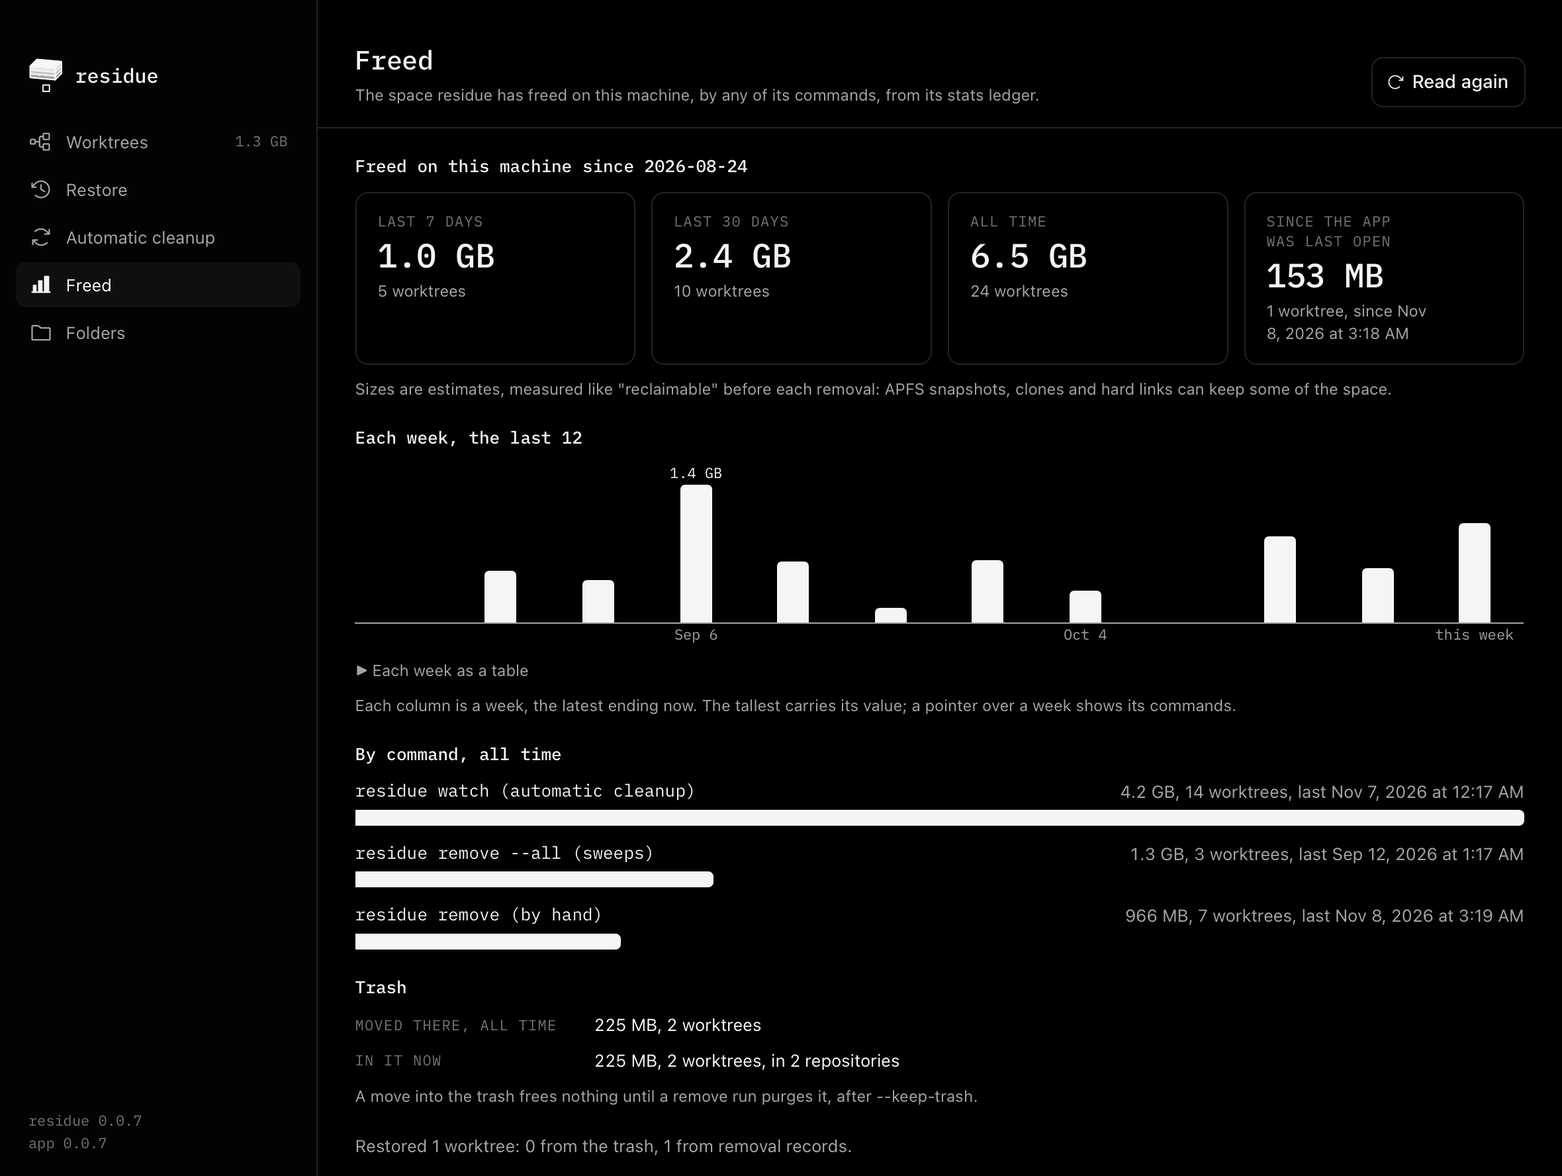
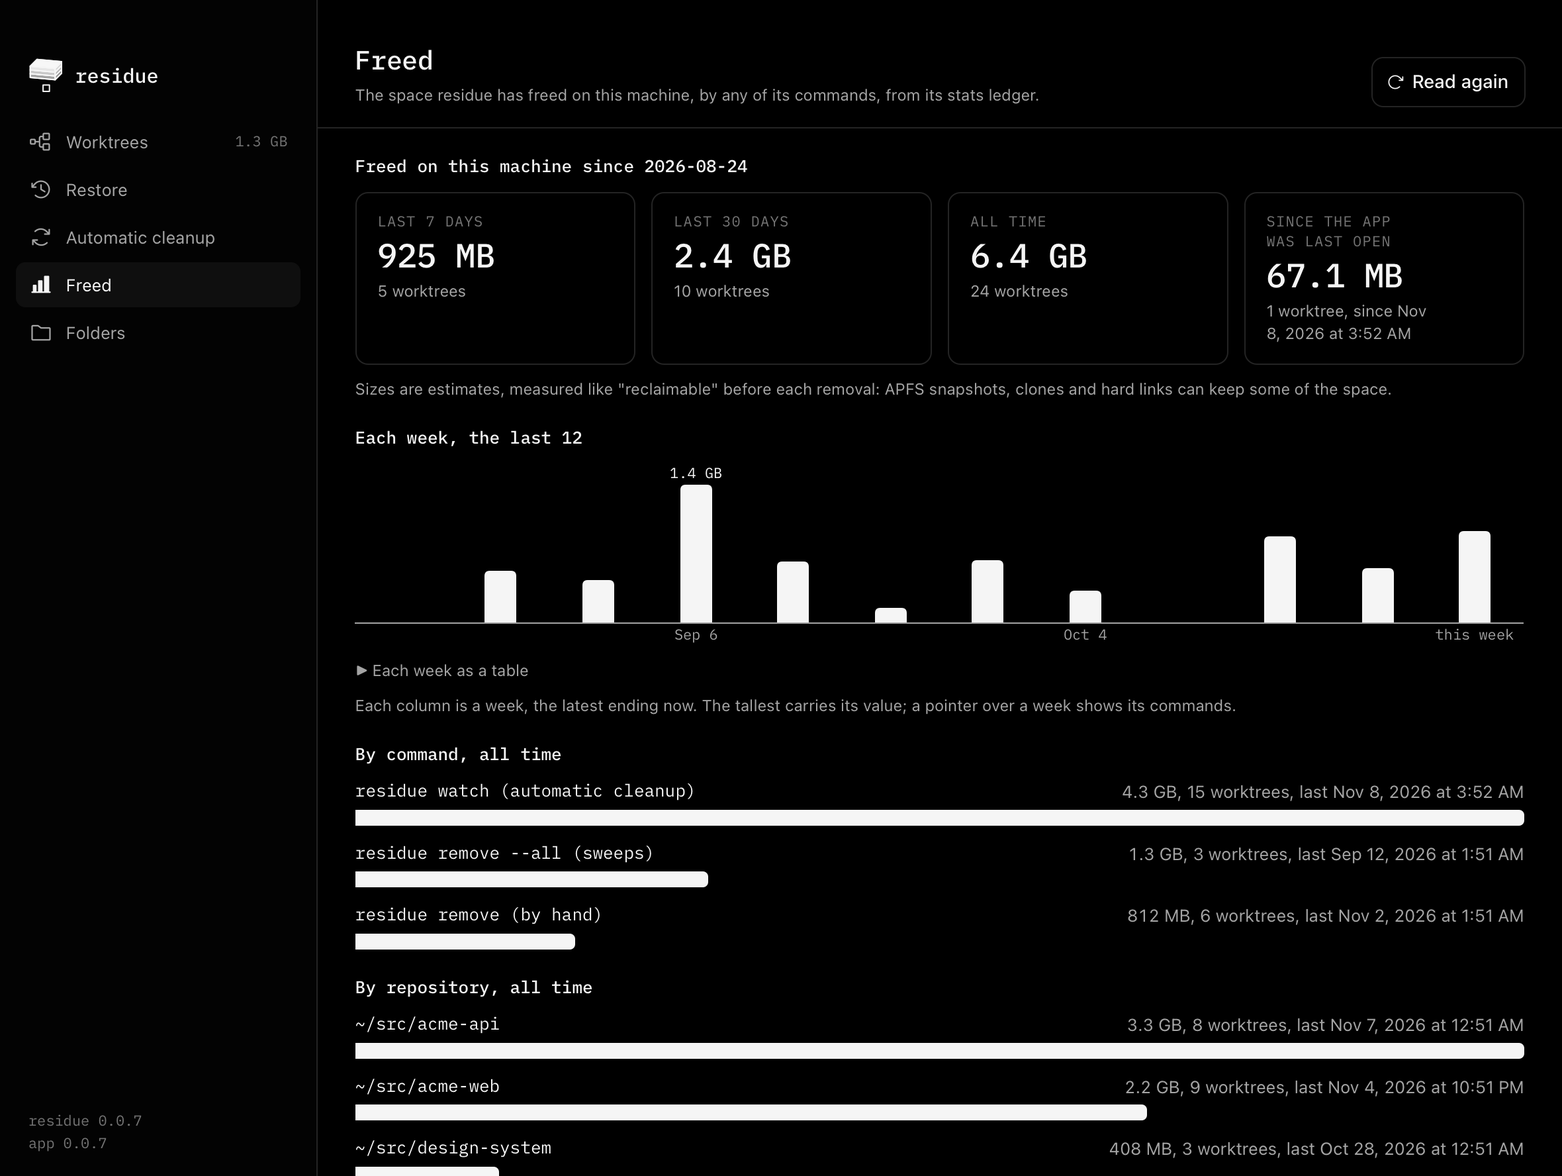
feat(app): what residue freed, by repository and since the app was last open (#38) (#65)
The Freed screen lists each repository from `residue stats --json`,
most first, with paths as the other screens show them; the first eight,
then a button for the rest. The Worktrees screen opens with what
automatic cleanup freed while the app was closed, in a polite status
region that links to Freed. The last-open mark now keeps `by.watch`.

README "Mac app": the Freed line, and both screenshots re-taken with
the new surfaces, alt texts to match. CHANGELOG under Unreleased.

diff --git a/app/src/lib/freed.ts b/app/src/lib/freed.ts
@@ -24,6 +24,11 @@ export function localDay(iso: string): string {
   return `${d.getFullYear()}-${pad(d.getMonth() + 1)}-${pad(d.getDate())}`;
 }
 
+/** `Nov 8, 2026 at 3:09 AM`: a time in the reader's locale, to the minute. */
+export function localTime(iso: string): string {
+  return new Date(iso).toLocaleString(undefined, { dateStyle: "medium", timeStyle: "short" });
+}
+
 /** `65.0 MB, 2 worktrees`. */
 export function sumText(sum: FreedSum): string {
   return `${bytes(sum.bytes)}, ${plural(sum.worktrees, "worktree")}`;
@@ -59,6 +64,19 @@ interface Mark {
   worktrees: number;
   /** When residue wrote that document. */
   at: string;
+  /** What automatic cleanup (`watch`) had freed; absent in a mark an earlier build wrote. */
+  watch: FreedSum | null;
+}
+
+function isSum(v: unknown): v is FreedSum {
+  return (
+    typeof v === "object" &&
+    v !== null &&
+    "bytes" in v &&
+    "worktrees" in v &&
+    typeof v.bytes === "number" &&
+    typeof v.worktrees === "number"
+  );
 }
 
 const MARK_KEY = "residue.freed.seen";
@@ -68,17 +86,9 @@ function readMark(): Mark | null {
     const raw = localStorage.getItem(MARK_KEY);
     if (raw === null) return null;
     const m: unknown = JSON.parse(raw);
-    if (
-      typeof m === "object" &&
-      m !== null &&
-      "bytes" in m &&
-      "worktrees" in m &&
-      "at" in m &&
-      typeof m.bytes === "number" &&
-      typeof m.worktrees === "number" &&
-      typeof m.at === "string"
-    ) {
-      return { bytes: m.bytes, worktrees: m.worktrees, at: m.at };
+    if (isSum(m) && "at" in m && typeof m.at === "string") {
+      const watch = "watch" in m && isSum(m.watch) ? { bytes: m.watch.bytes, worktrees: m.watch.worktrees } : null;
+      return { bytes: m.bytes, worktrees: m.worktrees, at: m.at, watch };
     }
     return null;
   } catch {
@@ -95,7 +105,8 @@ const lastOpen = readMark();
 export function rememberFreed(doc: StatsDocument): void {
   const now = doc.freed.all_time;
   try {
-    localStorage.setItem(MARK_KEY, JSON.stringify({ bytes: now.bytes, worktrees: now.worktrees, at: doc.generated_at }));
+    const mark: Mark = { bytes: now.bytes, worktrees: now.worktrees, at: doc.generated_at, watch: now.by.watch };
+    localStorage.setItem(MARK_KEY, JSON.stringify(mark));
   } catch {
     // Storage the web view refuses: the next session has no mark, and shows no figure.
   }
@@ -110,4 +121,20 @@ export function sinceLastOpen(doc: StatsDocument): (FreedSum & { since: string }
   const now = doc.freed.all_time;
   if (!lastOpen || now.worktrees < lastOpen.worktrees || now.bytes < lastOpen.bytes) return null;
   return { bytes: now.bytes - lastOpen.bytes, worktrees: now.worktrees - lastOpen.worktrees, since: lastOpen.at };
+}
+
+/**
+ * What automatic cleanup (`residue watch`, `by.watch`) freed since the last
+ * session's mark, for the line the Worktrees screen opens with. Null under
+ * the same rules as `sinceLastOpen`, when the mark has no `watch` figure
+ * (an earlier build wrote it), and when automatic cleanup freed nothing:
+ * removals by hand, the app's own included, are the user's own doing.
+ */
+export function cleanedSinceLastOpen(doc: StatsDocument): (FreedSum & { since: string }) | null {
+  const all = sinceLastOpen(doc);
+  const before = lastOpen?.watch;
+  if (!all || !before) return null;
+  const now = doc.freed.all_time.by.watch;
+  if (now.worktrees <= before.worktrees || now.bytes < before.bytes) return null;
+  return { bytes: now.bytes - before.bytes, worktrees: now.worktrees - before.worktrees, since: all.since };
 }

diff --git a/app/src/views/Worktrees.tsx b/app/src/views/Worktrees.tsx
@@ -1,5 +1,5 @@
 import { Button, Checkbox, Empty, Tabs } from "@cloudflare/kumo";
-import { ArrowClockwise, CaretRight, FolderPlus, Trash } from "@phosphor-icons/react";
+import { ArrowClockwise, ArrowsClockwise, CaretRight, FolderPlus, Trash } from "@phosphor-icons/react";
 import { useId, useMemo } from "react";
 import { Treemap, type ZoomLevel } from "../components/viz/Treemap";
 import {
@@ -13,6 +13,7 @@ import {
   isPermissionError,
 } from "../components/ui";
 import { baseName, bytes, inside, plural, tilde } from "../lib/format";
+import { localTime } from "../lib/freed";
 import type { CliError, FreedSum, Repository, ScanDocument, Worktree } from "../lib/types";
 import { documentTime } from "../lib/useCli";
 import { matches, type Filter } from "../lib/viz";
@@ -42,6 +43,7 @@ export function Worktrees({
   onRemove,
   onChooseFolders,
   freed,
+  cleaned,
   onFreed,
 }: {
   doc: ScanDocument | undefined;
@@ -62,6 +64,8 @@ export function Worktrees({
   onChooseFolders: () => void;
   /** What residue freed in the last 7 days and its estimate note; "unavailable" when its stats could not be read, null while they are read. */
   freed: { week: FreedSum; note: string } | "unavailable" | null;
+  /** What automatic cleanup freed since the app was last open (`cleanedSinceLastOpen`), with the estimate note; null when there is nothing to say. */
+  cleaned: (FreedSum & { since: string; note: string }) | null;
   onFreed: () => void;
 }) {
   const now = documentTime(doc?.generated_at) ?? 0;
@@ -114,6 +118,7 @@ export function Worktrees({
       <>
         {header}
         <div className="page-body">
+          <SinceOpen cleaned={cleaned} onFreed={onFreed} />
           <Empty
             icon={<FolderPlus size={32} />}
             title="No folders to scan"
@@ -133,6 +138,7 @@ export function Worktrees({
     <>
       {header}
       <div className="page-body" aria-busy={scanning}>
+        <SinceOpen cleaned={cleaned} onFreed={onFreed} />
         {error ? (
           <ErrorPanel
             title="The scan did not finish"
@@ -228,6 +234,39 @@ export function Worktrees({
         </footer>
       ) : null}
     </>
+  );
+}
+
+/**
+ * What automatic cleanup freed while the app was closed, said once the
+ * stats arrive, so nobody has to open Freed to learn it. The status region
+ * (`<output>`: role status, polite) is always there, empty until then, so
+ * a screen reader hears the line when it fills; an empty one takes no room
+ * (`.since-open:empty`).
+ */
+function SinceOpen({
+  cleaned,
+  onFreed,
+}: {
+  cleaned: (FreedSum & { since: string; note: string }) | null;
+  onFreed: () => void;
+}) {
+  return (
+    <output className="since-open" aria-live="polite">
+      {cleaned ? (
+        <>
+          <ArrowsClockwise size={16} aria-hidden className="since-open-icon" />
+          <span>
+            Automatic cleanup freed{" "}
+            <span className="since-open-figure num">about {bytes(cleaned.bytes)}</span>,{" "}
+            {plural(cleaned.worktrees, "worktree")}, since the app was last open on {localTime(cleaned.since)}.
+          </span>
+          <button type="button" className="link-button" title={cleaned.note} onClick={onFreed}>
+            Open Freed
+          </button>
+        </>
+      ) : null}
+    </output>
   );
 }
 

diff --git a/app/src/views/Freed.tsx b/app/src/views/Freed.tsx
@@ -1,11 +1,12 @@
 import { Button, Empty } from "@cloudflare/kumo";
 import { ArrowClockwise, ChartBar } from "@phosphor-icons/react";
+import { useState } from "react";
 import { Columns, WeekTable } from "../components/viz/Columns";
 import { Figure } from "../components/viz/Figure";
 import { Ranked } from "../components/viz/Ranked";
 import { ErrorPanel, Loading, PageHeader } from "../components/ui";
 import { bytes, plural, tilde } from "../lib/format";
-import { COMMANDS, localDay } from "../lib/freed";
+import { COMMANDS, localDay, localTime } from "../lib/freed";
 import type { CliError, FreedSum, StatsDocument } from "../lib/types";
 
 /**
@@ -67,7 +68,7 @@ export function Freed({
                     <Kpi
                       label="Since the app was last open"
                       sum={sinceOpen}
-                      note={new Date(sinceOpen.since).toLocaleString(undefined, { dateStyle: "medium", timeStyle: "short" })}
+                      note={localTime(sinceOpen.since)}
                     />
                   ) : null}
                 </dl>
@@ -114,13 +115,15 @@ export function Freed({
                       label: c.label,
                       sum: doc.freed.all_time.by[c.by],
                       note: last
-                        ? `last ${new Date(last).toLocaleString(undefined, { dateStyle: "medium", timeStyle: "short" })}`
+                        ? `last ${localTime(last)}`
                         : null,
                     };
                   })}
                 />
               </section>
             ) : null}
+
+            {freedAny && doc.repositories.length > 0 ? <Repositories repos={doc.repositories} home={home} /> : null}
 
             <Trash doc={doc} home={home} />
           </>
@@ -140,6 +143,39 @@ function Kpi({ label, sum, note }: { label: string; sum: FreedSum; note?: string
         {note ? `, since ${note}` : ""}
       </dd>
     </div>
+  );
+}
+
+/** How many repositories the list shows before "Show the other N". */
+const REPOS_SHOWN = 8;
+
+/**
+ * Each repository residue freed space in, most first, as `residue stats`
+ * lists them (`repositories`). Past the first eight, the rest wait behind
+ * one button, so a machine with many repositories keeps the trash in view.
+ */
+function Repositories({ repos, home }: { repos: StatsDocument["repositories"]; home: string | undefined }) {
+  const [all, setAll] = useState(false);
+  const shown = all ? repos : repos.slice(0, REPOS_SHOWN);
+  const hidden = repos.length - REPOS_SHOWN;
+  return (
+    <section className="block" aria-labelledby="freed-repos">
+      <h2 id="freed-repos">By repository, all time</h2>
+      <Ranked
+        label="Freed by repository, all time"
+        items={shown.map((r) => ({
+          key: r.common_dir,
+          label: tilde(r.path, home),
+          sum: r,
+          note: `last ${localTime(r.last_freed_at)}`,
+        }))}
+      />
+      {hidden > 0 ? (
+        <button type="button" className="link-button more" aria-expanded={all} onClick={() => setAll((a) => !a)}>
+          {all ? `Show the first ${REPOS_SHOWN} only` : `Show the other ${plural(hidden, "repository", "repositories")}`}
+        </button>
+      ) : null}
+    </section>
   );
 }
 

diff --git a/app/src/App.tsx b/app/src/App.tsx
@@ -13,7 +13,7 @@ import { Mark } from "./components/Mark";
 import type { ZoomLevel } from "./components/viz/Treemap";
 import { ErrorPanel, Loading } from "./components/ui";
 import { api } from "./lib/api";
-import { rememberFreed, sinceLastOpen } from "./lib/freed";
+import { cleanedSinceLastOpen, rememberFreed, sinceLastOpen } from "./lib/freed";
 import { bytes } from "./lib/format";
 import type { Settings } from "./lib/types";
 import type { Filter } from "./lib/viz";
@@ -74,6 +74,11 @@ export function App() {
   useEffect(() => {
     if (stats) rememberFreed(stats);
   }, [stats]);
+  // What automatic cleanup freed while the app was closed: the line the
+  // Worktrees screen opens with. The app's own removals are by hand, so a
+  // removal in this session never adds to it.
+  const cleanedSum = stats ? cleanedSinceLastOpen(stats) : null;
+  const cleaned = cleanedSum && stats ? { ...cleanedSum, note: stats.estimate_note } : null;
 
   // What opened the detail (`data-opener`), so leaving the detail returns
   // focus there, as a keyboard or screen reader user left it.
@@ -263,6 +268,7 @@ export function App() {
                   onRemove={setRemoving}
                   onChooseFolders={() => go("folders")}
                   freed={stats ? { week: stats.freed.last_7_days, note: stats.estimate_note } : statsQ.error ? "unavailable" : null}
+                  cleaned={cleaned}
                   onFreed={() => go("freed")}
                 />
               )

diff --git a/app/src/styles.css b/app/src/styles.css
@@ -299,9 +299,11 @@
 }
 
 .page-body {
+  --page-gap: 1.25rem;
+
   display: flex;
   flex-direction: column;
-  gap: 1.25rem;
+  gap: var(--page-gap);
   min-block-size: 0;
   padding-block: 1.25rem 2.5rem;
   padding-inline: var(--pad-x);
@@ -624,6 +626,37 @@ dd {
 
 .notice p + ul {
   margin-block-start: 0.35rem;
+}
+
+/* What automatic cleanup freed since the app was last open. The status
+   region stays in place while empty, so a screen reader hears it fill; its
+   negative margin takes back the page's gap, so an empty one takes no room. */
+.since-open {
+  display: flex;
+  flex-wrap: wrap;
+  align-items: center;
+  gap: 0.35rem 0.75rem;
+  margin: 0;
+  padding: 0.75rem 1.1rem;
+  border: 1px solid var(--line);
+  border-radius: var(--radius);
+  color: var(--muted);
+  font-size: 0.8125rem;
+}
+
+.since-open:empty {
+  padding: 0;
+  border: 0;
+  margin-block-end: calc(-1 * var(--page-gap));
+}
+
+.since-open-icon {
+  flex: none;
+  color: var(--fg);
+}
+
+.since-open-figure {
+  color: var(--fg);
 }
 
 .notice.dev {
@@ -1552,6 +1585,13 @@ li:not([data-result="trashed"]) > .plan-result {
 
 .link-button:active {
   opacity: 0.7;
+}
+
+/* "Show the other N": a quiet line under a list, never stretched across it. */
+.link-button.more {
+  justify-self: start;
+  color: var(--muted);
+  font-size: 0.75rem;
 }
 
 .disks {

diff --git a/README.md b/README.md
@@ -324,11 +324,11 @@ The launchd plist, the systemd unit and timer, how to stop them, and the sweep's
 The Mac app is residue in a window. It lists the linked worktrees under your code folders with their size and verdict, shows why each one is kept, moves the ones that can go to the trash, restores them, shows what residue has freed, and turns automatic cleanup on or off. Every check, size and removal comes from the residue binary inside the app, which is this release's own residue, with the same version.
 
 <p>
-<img src="docs/screenshots/worktrees.png" width="830" alt="The Worktrees screen: 1.3 GB reclaimable, 7 of 12 linked worktrees can go, about 1.0 GB freed in the last 7 days. A treemap sizes each worktree by the space removing it gives back, grouped by repository: white for can go, gray for kept, hatched for unknown. Below it, each worktree's checks and verdict.">
+<img src="docs/screenshots/worktrees.png" width="830" alt="The Worktrees screen: a line that says automatic cleanup freed about 67.1 MB, 1 worktree, since the app was last open, with a link to Freed. Below it, 1.3 GB reclaimable, 7 of 12 linked worktrees can go, about 925 MB freed in the last 7 days. A treemap sizes each worktree by the space removing it gives back, grouped by repository: white for can go, gray for kept, hatched for unknown. Below it, each worktree's checks and verdict.">
 </p>
 
 <p>
-<img src="docs/screenshots/freed.png" width="830" alt="The Freed screen: 1.0 GB freed in the last 7 days, 2.4 GB in the last 30, 6.5 GB all time, a column for each of the last 12 weeks, and the space each command freed: residue watch, residue remove --all and residue remove by hand.">
+<img src="docs/screenshots/freed.png" width="830" alt="The Freed screen: 925 MB freed in the last 7 days, 2.4 GB in the last 30, 6.4 GB all time and 67.1 MB since the app was last open, a column for each of the last 12 weeks, the space each command freed (residue watch, residue remove --all and residue remove by hand), and the space freed in each repository, most first.">
 </p>
 
 Both screenshots show example repositories and a made-up history of removals. The Restore screen, with its trash entries and removal records: [docs/screenshots/restore.png](docs/screenshots/restore.png).
@@ -349,7 +349,7 @@ Control-click > Open no longer skips this step: since macOS 15, Apple requires t
 
 - **Removal** always uses the trash (`residue remove --trash`), and nothing moves until you confirm the plan residue shows: the worktrees it moves, the trash entries older than 7 days it purges, and the removal records it forgets, each older than both 30 days and the `--keep-removed` it was written with. The branch and its commits always stay.
 - **Restore** is `residue restore`, and it lists the trash and the removal records, newest first. A trashed worktree comes back with every file until a later removal or automatic cleanup in that repository purges it. The purge, and every deletion by automatic cleanup, leaves a removal record, and Restore recreates the worktree from it on its branch and HEAD until a later removal forgets the record. No run forgets one before the `--keep-removed` it was written with: 30 days for the app's removals, the service's for automatic cleanup. Each record's row gives the date it lasts until, at least. Its ignored files, such as `node_modules/`, do not come back, and the record's row names them before you click: [Restore a removed worktree](#restore-a-removed-worktree).
-- **Freed** is `residue stats --json`: what residue freed on this machine in the last 7 and 30 days, all time and since the app was last open, each of the last 12 weeks, and by command. Each size is the estimate residue measured before the removal: [How much space it freed](#how-much-space-it-freed).
+- **Freed** is `residue stats --json`: what residue freed on this machine in the last 7 and 30 days, all time and since the app was last open, each of the last 12 weeks, by command and by repository. When automatic cleanup freed space while the app was closed, the Worktrees screen opens with how much. Each size is the estimate residue measured before the removal: [How much space it freed](#how-much-space-it-freed).
 - **Automatic cleanup** is `residue service install FOLDERS` and `residue service uninstall`: the same `com.whiteheap.residue.watch` service as [Automate cleanup](#automate-cleanup), so the app shows a service you installed from a terminal, and the other way round. It deletes instead of using the trash; the app says so before you turn it on. Saving other folders keeps the service's options as written, including ones the app does not know. Preview runs one pass the way the saved service would, with `--dry-run`, fetching first unless the service sets `--no-fetch`.
 - The service records the binary that installed it, so the app never installs it from the copy inside the app. It uses a `residue` you installed that is at least as new as the app's, such as `/opt/homebrew/bin/residue`, or else a copy at `~/Library/Application Support/com.whiteheap.residue/bin/residue`, which stays when the app moves or is deleted. The Automatic cleanup screen shows which binary the service runs and the command that turns it off from a terminal. Deleting the app leaves the service running.
 

diff --git a/CHANGELOG.md b/CHANGELOG.md
@@ -28,6 +28,7 @@
 - The Mac app's charts (#43): a hatched tile's label sits on a solid chip, so the hatch never runs through it; white text on a gray "kept" tile has a contrast of 6.0:1 (4.85:1 in light mode), and 9.2:1 on hover, where the hover was 3.3:1; and Back or Escape from a worktree's detail returns focus to the tile that opened it.
 - The Mac app's Restore screen (#43) gives each removal record the date residue keeps it at least until, `restorable until at least Dec 8, 2026, 30 days after its removal`, from the `--keep-removed` it was written with (`keep_seconds`, #47), with a meter of the time passed. A record without that value, and one whose removal did not finish, get no date.
 - The Mac app (#43) no longer says a removal forgets every record older than its own `--keep-removed`. Restore, Automatic cleanup and the remove confirmation now say that each removal keeps the records it writes for at least its `--keep-removed`, and that no run forgets a record before the value it was written with (#47). So does the README's "Mac app" section, which also gains a line for the Freed screen.
+- The Mac app (#38) says what residue freed in each repository and what automatic cleanup freed while it was closed. The Freed screen lists each repository from `residue stats --json`, most first, `~/src/acme-api 3.3 GB, 8 worktrees, last Nov 7, 2026 at 12:51 AM`, the first eight and then `Show the other 3 repositories`. When automatic cleanup freed space since the app was last open, the Worktrees screen opens with `Automatic cleanup freed about 67.1 MB, 1 worktree, since the app was last open on Nov 8, 2026 at 3:52 AM.` and a link to Freed, in a polite status a screen reader reads out. It says nothing on a first open, when automatic cleanup freed nothing, or when the totals went down. Decision: only automatic cleanup's share, never the total: a removal by hand, the app's own included, is the user's own doing, and the Freed screen's "Since the app was last open" has the total.
 - `cargo install --git` needs the package name now: `cargo install --locked --git https://github.com/whiteheap/residue --tag vX.Y.Z residue`. Cargo searches the whole repository for packages and finds the app's crate too, so without the name it stops with "multiple packages with binaries found". The name works for every earlier tag as well. The CLI's package excludes `app/`, and nothing at the root builds it.
 - CI (#39): `.github/workflows/app.yml` type-checks, lints, formats, runs clippy on and builds the app, with residue built from the same commit, when `app/`, the CLI's source or that workflow changes. It is not a required check. `release.yml` runs as a dry run on a pull request that changes it and on `gh workflow run release.yml --ref BRANCH`: it builds and checks the archives and the DMG and attests and publishes nothing. `packages.yml` keeps the DMG's line when it rewrites `SHA256SUMS`.
 - Automatic cleanup chooses how long removal records are kept (#47): `residue watch --keep-removed DURATION`, with the syntax, default (`30d`) and limits of `remove --keep-removed`, passed to each `residue remove --yes --idle --no-trash` it starts. Until now that child always used `30d`. `service install --keep-removed DURATION` writes it into the service; every service it installs now carries `--keep-removed`, as it carries `--fetch-every`. `service status` shows it on a new line, `removal records: kept 12w (--keep-removed)`, and `(--keep-removed, the default)` for a service installed before. A `service install` that replaces a service with another `--keep-removed` says so: `The service it replaced kept removal records 12w (--keep-removed). This one keeps new ones 30d; records already written keep their own. Pass --keep-removed 12w to keep the old value.` The `watching` log line names it. The usage error for `--keep-removed` outside `remove` now says it applies to `remove` and `watch`.
